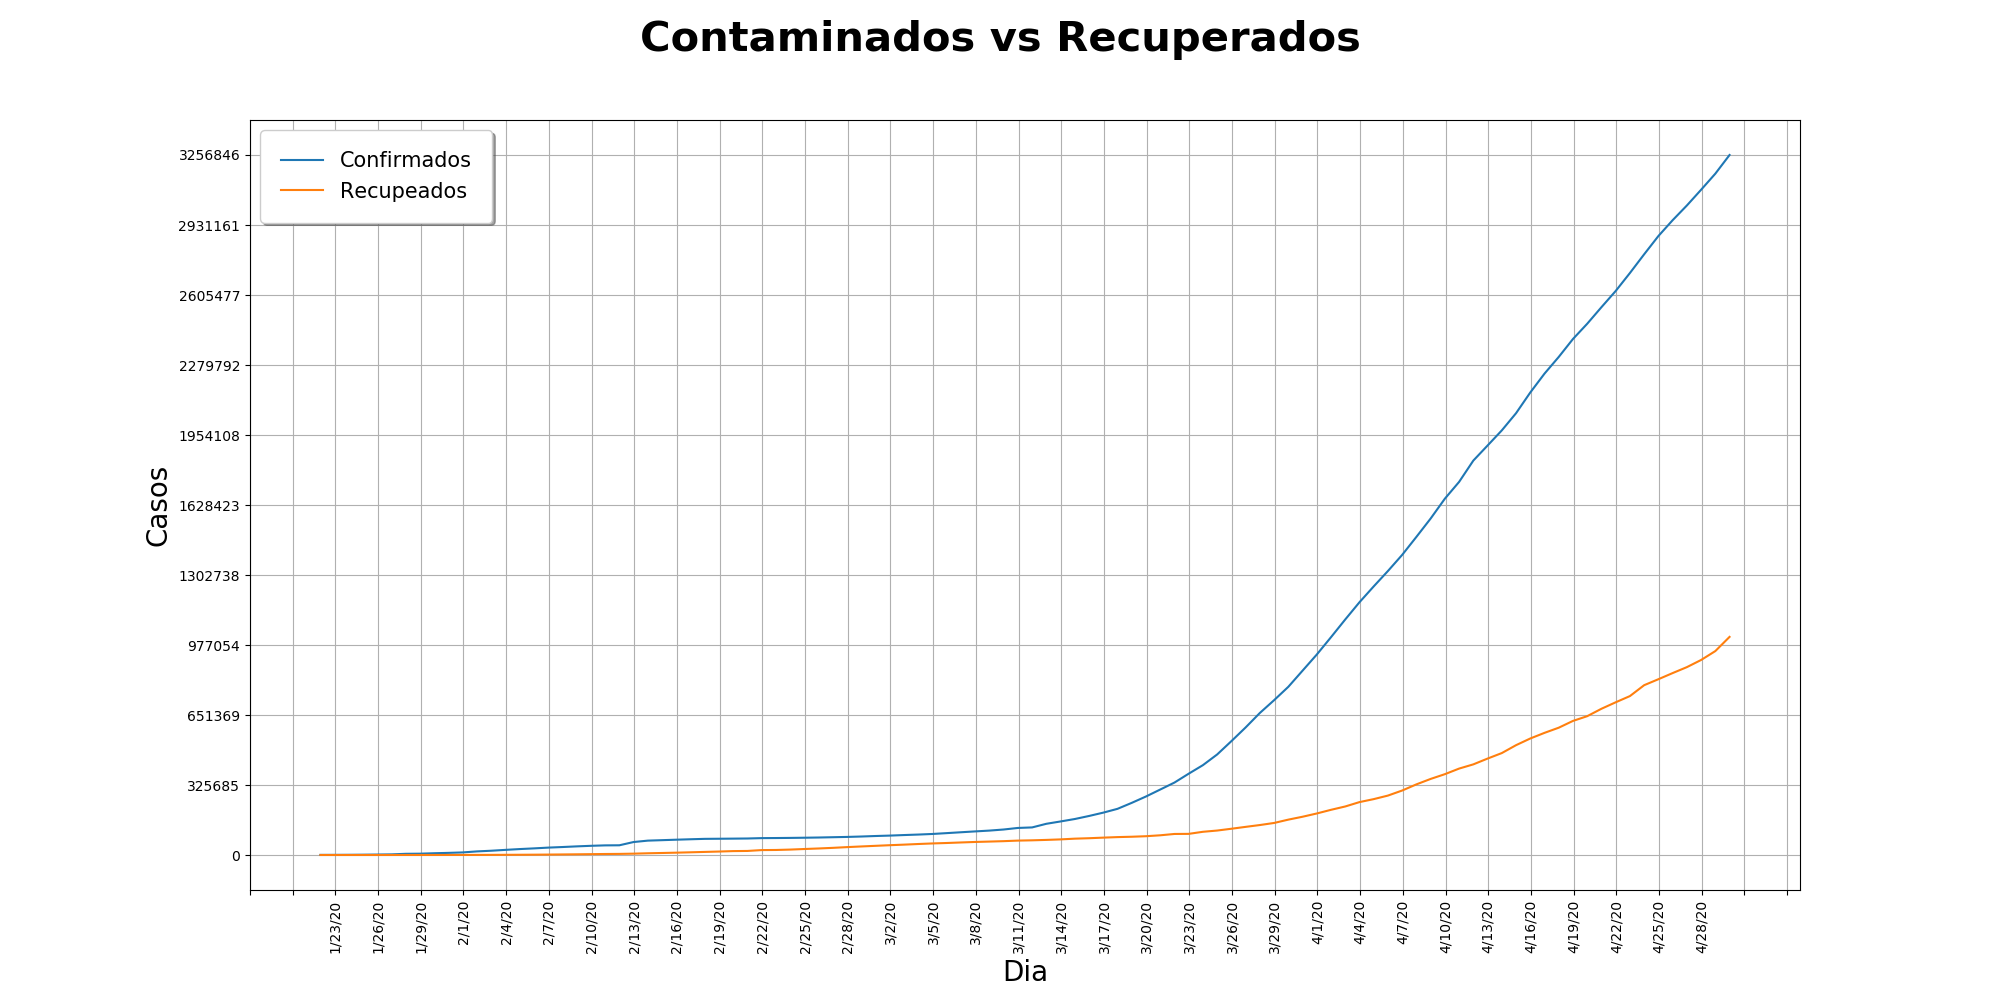
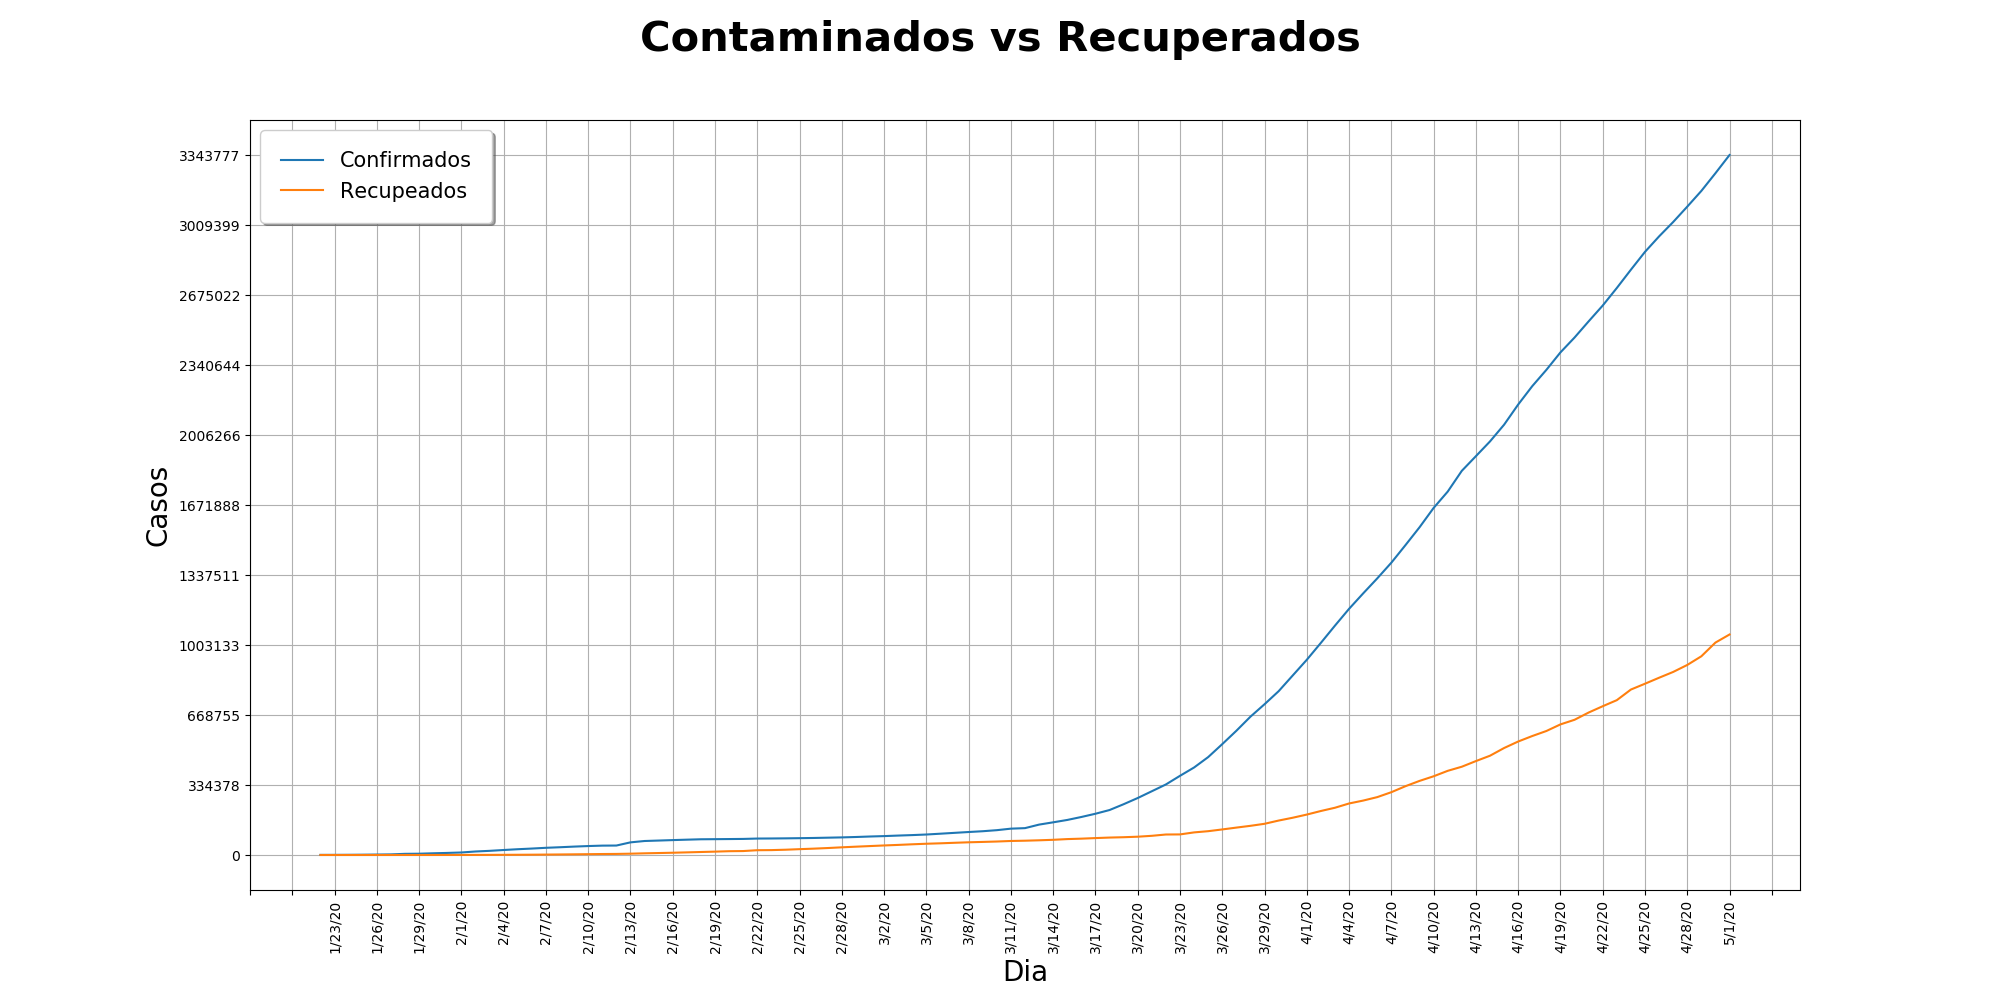
graficos_globais

diff --git a/WebApplicationApi/Visualizacao_dados.py b/WebApplicationApi/Visualizacao_dados.py
@@ -110,7 +110,7 @@ class Global():
               plt.xlabel('Dia', fontsize=20)
               plt.ylabel('Casos', fontsize=20)
               
-              
+              confirmados_total=df_confirmados.sum()
               ax.plot(confirmados_total,label='Confirmados')
               ax.plot(recuperados_total,label='Recupeados')
               start, end = ax.get_xlim()
@@ -122,22 +122,57 @@ class Global():
               ax.grid()
               fig.savefig('static/Total.png')
 
-
+              #GRAFICO VISÃO GLOBAL
               CasosAtuais=confirmados_total-recuperados_total-mortes_total
               fig, ax = plt.subplots(figsize=(20, 10))
               
-              fig.suptitle('Casos Existentes', fontsize=30, fontweight='bold')
+              fig.suptitle('Visão Global', fontweight='bold',fontsize=15, color='#0c3c6e')
               plt.xlabel('Dia', fontsize=20)
               plt.ylabel('Casos Atuais', fontsize=20)
               
-              ax.plot(CasosAtuais)
+              ax.plot(CasosAtuais,label="Ativos")
+              ax.plot(confirmados_total,label='Confirmados')
+              ax.plot(recuperados_total,label='Recupeados')
+              ax.plot(mortes_total,label="Mortes")
+              ax.legend(fancybox=True, framealpha=1, shadow=True, borderpad=1,fontsize='15')
               start, end = ax.get_xlim()
               ax.xaxis.set_ticks(np.arange(start, end, 3))
               plt.xticks(rotation='vertical',fontsize=16)
-              plt.yticks(np.arange(0, max(CasosAtuais)+1, max(CasosAtuais)/10),fontsize=16)
+              plt.yticks(np.arange(0, max(confirmados_total)+1, max(confirmados_total)/10),fontsize=16)
               
               ax.grid()
               fig.savefig('static/Activos.png')
+              
+              
+              #CASOS DIARIOS GLOBAL
+              total = confirmados_total
+              confirmados_total=confirmados_total.to_frame()
+              lista_values=[]
+              lista_index=[]
+            
+              for index, row in confirmados_total.iterrows():
+                  if row.sum()>0:
+                      lista_values.append(int(row-sum(lista_values)))
+                      lista_index.append(index)
+                
+              fig, ax = plt.subplots(figsize=(20, 10))
+              fig.suptitle('Casos Corona Virus por dia no mundo', fontsize=15, color='#0c3c6e')
+    
+              plt.xlabel('Dia', fontsize=10)
+              plt.ylabel('Casos Por Dia', fontsize=10)
+            
+    
+              df_values=pd.DataFrame(index=lista_index)
+            
+              df_values['CasosDiarios']=lista_values
+              #print(df_values)
+              #df_values.index=self.pais_total.index
+              ax.bar(df_values.index,df_values[:]['CasosDiarios'])
+              start, end = ax.get_xlim()
+              ax.xaxis.set_ticks(np.arange(start, end, 3))
+              plt.xticks(rotation='vertical')
+              ax.grid()
+              fig.savefig('static/Casos_diarios.png')
 
 
 
